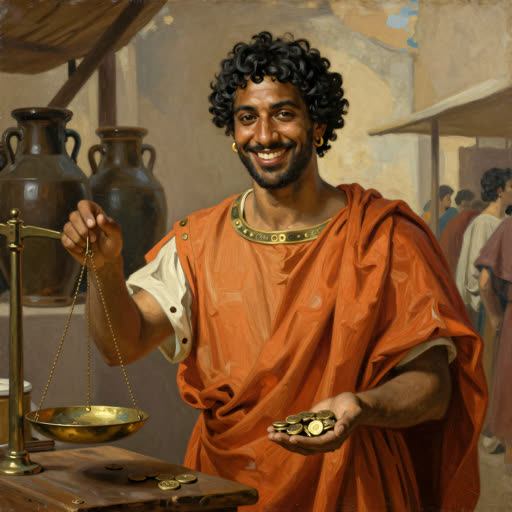
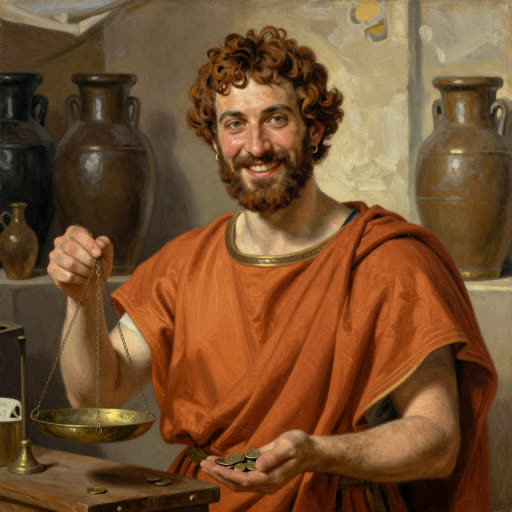
v49: три испытания на эпоху, войско, последствия с именем, заговор совета, восемь новых событий, наставник по механикам, новые портреты рода Менял

diff --git a/story.js b/story.js
@@ -1,0 +1,202 @@
+// Развитие от эпохи к эпохе: войско, разные испытания, последствия с именем, заговор совета, новые события.
+
+// ---------- войско: отдельное дело с эпохи первых городов ----------
+JOBS.army={name:"Войско", who:["men"], out:{}, tip:"только мужчины · воин стоит троих в бою, но ест казну: 1 за двоих в ход", start:0};
+const _startEraSt=startEra;
+startEra=function(){
+  S.jobs.army=S.jobs.army||0;
+  if(S.eraIdx>=2 && !S.open.jobs.includes("army")){ S.open.jobs.push("army"); S.flags.armyNew=true; }
+  _startEraSt();
+  if(S.flags.armyNew){ S.flags.armyNew=false; setTimeout(()=>toast("<b>Открыто: Войско</b><br>Стража стережёт добро, войско воюет. Воин в бою стоит троих, но войско каждый ход ест казну.","ms"),2600); }
+};
+const _economySt=economy;
+economy=function(){ const r=_economySt(), fx=r.fx, n=r.notes;
+  if(S.jobs.army>0){ const d=Math.ceil(S.jobs.army/2); fx.goods-=d; n.push(`жалованье войску −${d}`); }
+  if(S.blockade>0){ S.blockade--; const d=3+S.eraIdx; fx.goods-=d; n.push(`БЕДА: ${S.blockadeWho||"чужие купцы"} обходят твой рынок: казна −${d}${S.blockade?", ещё "+S.blockade+" х.":", торговля возвращается"}`); }
+  // заговор: двое обиженных приходят вместе
+  const foes=Object.keys(ADVISORS).filter(k=>S.rel[k]<=-3);
+  if(foes.length>=2 && S.plotEra!==S.eraIdx && S.queue.length>1){ S.plotEra=S.eraIdx; const [a,b]=foes, A=ADVISORS[a].name, B=ADVISORS[b].name, id="plot_"+S.eraIdx+"_"+S.turn, pay=Math.max(10,Math.round(S.stats.goods*0.3));
+    LATER[id]={title:"Заговор в совете", who:a, hist:"Правителей чаще свергали не враги у ворот, а собственные приближённые: недовольный совет опаснее чужого войска.",
+      text:`${A} и ${B} пришли вдвоём. Говорят тихо и без поклонов: или ты считаешься с ними, или они найдут правителя посговорчивее. За ними их люди.`,
+      choices:[{t:`Уступить обоим: доля из казны (отдашь ${pay})`, fx:{goods:-pay,trust:-3}, rel:{[a]:+3,[b]:+3}, mem:"откупился от заговорщиков в совете"},
+               {t:`Выйти к народу и назвать их при всех (нужно доверия от 60)`, test:()=>S.stats.trust>=60, win:{fx:{trust:+4}, rel:{[a]:+2,[b]:+2}, n:"Народ встал за тебя. Заговорщики притихли и вернулись к делам."}, lose:{fx:{trust:-9,mood:-6}, rel:{}, n:"Толпа молчала. Теперь весь город знает, что совет против тебя."}, mem:"вынес заговор совета на суд народа"},
+               {t:`Прогнать зачинщика (${A})`, fx:{mood:-3}, rel:{[b]:+1}, removed:a, mem:`прогнал зачинщика заговора ${A}`}]};
+    S.pending.push({id, at:S.turn+1}); n.push(`заговор: ${A} и ${B} что-то затевают`); }
+  return r; };
+
+// ---------- последствия с именем ----------
+const _guestOutcomeSt=guestOutcome;
+guestOutcome=function(out){
+  const g=S.cur&&S.cur.guest; const r=_guestOutcomeSt(out);
+  if(out==="refuse" && g){ S.blockade=3; S.blockadeWho="купцы, которых прислал "+g; line("fx",`Отказ запомнят. ${g} найдёт, чем ответить: жди перемен на рынке.`); }
+  return r; };
+const _applySt=apply;
+apply=function(res){
+  const c=S.cur;
+  // выбор с проверкой вне испытаний (заговор и др.)
+  if(res.test && !(c&&c.trial)){ const ok=!!res.test(), o=ok?res.win:res.lose; res.fx={...o.fx}; res.rel={...(o.rel||{})}; res.narration=o.n; delete res.test; }
+  // обиженный советник припомнит решение через пару ходов
+  if(c && !c.aud && !c.trial && res.rel && S.grudgeEra!==S.eraIdx && S.queue.length>2){
+    const k=Object.keys(res.rel).find(x=>ADVISORS[x] && res.rel[x]<=-2);
+    if(k){ S.grudgeEra=S.eraIdx; const A=ADVISORS[k].name, f=isFem(k), what=res.mem||"твоё решение", id="grudge_"+S.eraIdx+"_"+S.turn;
+      LATER[id]={title:`${A} помнит`, who:k, hist:c.hist||"Обида приближённого дорого обходилась правителям во все времена.",
+        text:`${A} не ${f?"забыла":"забыл"}, как ты решил дело («${what}»). Люди ${f?"её":"его"} рода работают спустя рукава и говорят, что правитель не ценит своих.`,
+        choices:[{t:"Загладить подарком из казны", fx:{goods:-8}, rel:{[k]:+2}, mem:`загладил обиду ${A} подарком`},
+                 {t:"Объяснить решение при всём совете", fx:{trust:-3,mood:+1}, rel:{[k]:+1}, mem:`объяснил совету своё решение`},
+                 {t:"Пусть привыкает: правитель здесь один", fx:{trust:+2,mood:-3}, rel:{[k]:-1}, mem:`оставил обиду ${A} без ответа`}]};
+      S.pending.push({id, at:S.turn+2}); }
+  }
+  return _applySt(res);
+};
+
+// ---------- испытания: три на эпоху, выпадает одно ----------
+const _makeTrialSt=makeTrial;
+makeTrial=function(){
+  const s=S.stats, e=S.eraIdx, p=warPower(), n=Math.max(7,Math.round(s.people/5)), pay=Math.max(14,Math.round(s.goods*0.4));
+  const ALT=[
+   [{title:"Чужое племя у реки", text:`Чужаки заняли ваши места охоты и не уходят. У тебя на охоте ${S.jobs.hunt}, запасов ${s.goods}, доверия ${s.trust}.`,
+     hist:"У охотников-собирателей границы угодий держались на уговорах и обмене дарами. Открытая стычка дорого стоила обеим сторонам.",
+     choices:[{t:"Прогнать силой", hint:`нужно охотников от 5 и расположение старшего охотника (${advName("hort","его нет в совете")})`, test:()=>S.jobs.hunt>=5&&advOk("hort"), win:{fx:{trust:+3,people:-1}, n:"Охотники вышли стеной. Чужаки ушли за реку."}, lose:{fx:{people:-3,mood:-5}, n:"Вышли вразнобой, без вожака. Вернулись не все."}},
+              {t:"Поделить угодья по уговору", hint:"нужно доверия от 55", test:()=>s.trust>=55, win:{fx:{food:-6,trust:+2}, n:"Твоему слову поверили и свои, и чужие. Зверя стало меньше, зато мир."}, lose:{fx:{food:-10,trust:-4}, n:"Свои же назвали уговор слабостью и нарушили его первыми."}},
+              {t:"Откупиться шкурами и солью", hint:"нужно запасов от 12", test:()=>s.goods>=12, win:{fx:{goods:-10}, n:"Чужаки взяли дары и ушли вниз по реке."}, lose:{fx:{goods:-5,food:-8,mood:-3}, n:"Даров оказалось мало. Забрали их и остались."}}]},
+    {title:"Лесной пожар", text:`Сухое лето, огонь идёт на стоянку. У тебя на сборе ${S.jobs.gather}, довольства ${s.mood}.`,
+     hist:"Огонь был для охотников не только врагом: многие народы сами выжигали траву и подлесок, чтобы приманить зверя на молодую зелень.",
+     choices:[{t:"Уходить за реку всем племенем", hint:"нужно довольства от 55: пойдут без споров", test:()=>s.mood>=55, win:{fx:{food:-8,goods:-3}, n:"Ушли быстро и все. Часть запасов бросили."}, lose:{fx:{people:-2,food:-10,goods:-5}, n:"Пока спорили, чьё добро спасать, огонь отрезал тропу."}},
+              {t:"Спасать запасы", hint:"нужно на сборе от 8 человек", test:()=>S.jobs.gather>=8, win:{fx:{goods:-2,food:-4}, n:"Рук хватило: запасы вынесли к воде."}, lose:{fx:{people:-2,food:-12}, n:"Рук не хватило. Спасли мало, обожглись многие."}},
+              {t:"Пустить встречный огонь", hint:`нужно расположение жрицы: она знает ветер (${advName("vedana","её нет в совете")})`, test:()=>advOk("vedana"), win:{fx:{trust:+3,food:-3}, n:"Встречный пал съел траву перед стоянкой. Пожар прошёл стороной."}, lose:{fx:{people:-3,food:-10,trust:-4}, n:"Ветер переменился, и свой же огонь пришёл к шалашам."}}]}],
+   [{title:"Падёж скота", text:`В стаде мор, животные падают одно за другим. У тебя на посевах ${S.jobs.gather}, запасов ${s.goods}.`,
+     hist:"Вместе со стадами к людям пришли новые болезни: скученность скота и людей в первых посёлках сделала мор частым гостем.",
+     choices:[{t:"Забить больных, здоровых отделить", hint:"нужен загон для скота", test:()=>hasB("pen"), win:{fx:{food:-5}, n:"Здоровых увели в загон. Стадо уцелело наполовину."}, lose:{fx:{food:-14,mood:-4}, n:"Отделить было негде. Мор взял почти всё стадо."}},
+              {t:"Жить посевами", hint:"нужно на посевах от 8 человек", test:()=>S.jobs.gather>=8, win:{fx:{food:-6}, n:"Поля прокормили. Мяса до осени не будет."}, lose:{fx:{food:-12,people:-2}, n:"Полей мало, рук на них ещё меньше. Пришёл голод."}},
+              {t:"Выменять скот у соседей", hint:"нужно запасов от 18", test:()=>s.goods>=18, win:{fx:{goods:-14,food:+2}, n:"Соседи продали молодняк. Дорого, но стадо снова есть."}, lose:{fx:{goods:-8,food:-10}, n:"На ваши запасы дали трёх тощих коз."}}]},
+    {title:"Набег на амбары", text:`Чужие люди идут за вашим зерном. У тебя стражи ${S.jobs.guard}, еды ${s.food}.`,
+     hist:"Первые укрепления появились вместе с первыми запасами: каменную стену Иерихона построили около десяти тысяч лет назад.",
+     choices:[{t:"Отбиваться", hint:"нужно стражи от 3", test:()=>S.jobs.guard>=3, win:{fx:{trust:+3,people:-1}, n:"Стража встретила их у частокола. Зерно цело."}, lose:{fx:{food:-12,goods:-8,people:-2}, n:"Сторожить было некому. Амбары вынесли за ночь."}},
+              {t:"Спрятать зерно и уйти в лес", hint:"нужна веха «Первый амбар»: есть ямы и тайники", test:()=>!!S.ms.granary, win:{fx:{food:-5,mood:-2}, n:"Нашли только пустые дома. Тайники уцелели."}, lose:{fx:{food:-14,goods:-6}, n:"Прятать было некуда: зерно лежало на виду."}},
+              {t:"Откупиться частью урожая", hint:"нужно еды от 45", test:()=>s.food>=45, win:{fx:{food:-16}, n:"Отдали треть и остались живы."}, lose:{fx:{food:-12,goods:-8,trust:-4}, n:"Отдавать было почти нечего. Взяли всё, что нашли."}}]}],
+   [{title:"Пересохший канал", text:`Река обмелела, канал занесло илом, поля сохнут. У тебя еды ${s.food}, казны ${s.goods}.`,
+     hist:"Жизнь Шумера держалась на каналах. Чистка русел была общей повинностью, а споры из-за воды доходили до войн между городами, как у Лагаша с Уммой.",
+     choices:[{t:"Чистить русло всем городом", hint:"нужен канал или закон о труде", test:()=>hasB("canal")||S.laws.some(l=>l.kind==="work"), win:{fx:{food:-6,mood:-2}, n:"Вода пошла на поля. Урожай спасли наполовину."}, lose:{fx:{food:-16,people:-2}, n:"Копать было нечего и некому приказать. Поля сгорели."}},
+              {t:"Открыть храмовые житницы", hint:"нужна веха «Храм-хранилище»", test:()=>!!S.ms.temple, win:{fx:{food:-8,trust:+3}, n:"Храм раздал зерно в долг до урожая."}, lose:{fx:{food:-14,trust:-4,mood:-4}, n:"Житниц нет. Люди ели посевное зерно."}},
+              {t:"Купить зерно у соседей", hint:`отдашь ${pay} казны`, test:()=>s.goods>pay+5, win:{fx:{goods:-pay,food:+4}, n:"Зерно привезли на лодках. Казна похудела."}, lose:{fx:{food:-14,mood:-5}, n:"Казны не хватило. Соседи продали другим."}}]},
+    {title:"Бунт должников", text:`Бедняки, отдавшие за долги поля и детей, собрались у ворот. Твоя сила ${p}, законов ${S.laws.length}, доверия ${s.trust}.`,
+     hist:"Правители Месопотамии не раз объявляли прощение долгов, чтобы должники не бежали и не бунтовали. Самое раннее известное принадлежит Энметене из Лагаша, около 2400 года до н. э.",
+     choices:[{t:"Простить долги бедным", hint:"нужна веха «Писец и учёт»: есть списки, кому и сколько", test:()=>!!S.ms.scribe, win:{fx:{goods:-8,mood:+4,trust:+2}, n:"Писцы разбили таблички с долгами. Люди разошлись по домам."}, lose:{fx:{goods:-12,mood:-3,trust:-4}, n:"Списков нет: простили не тем, и обиженных стало вдвое больше."}},
+              {t:"Судить по закону", hint:"нужен хотя бы один закон", test:()=>S.laws.length>0, win:{fx:{trust:+3,mood:-3}, n:"Закон один для всех. Ворчат, но подчинились."}, lose:{fx:{trust:-7,mood:-6}, n:"Закона нет: судили как придётся, и каждый приговор звали произволом."}},
+              {t:"Разогнать", hint:`твоя сила ${p}, нужно ${n}`, test:()=>p>=n, win:{fx:{mood:-6,trust:-2}, n:"Площадь очистили. Должники ушли молча."}, lose:{fx:{people:-4,mood:-8,trust:-5}, n:"Стражу смяли. Усадьбы богачей горели всю ночь."}}]}],
+   [{title:"Хлебный бунт", text:`Хлеб подорожал втрое, у пекарен драки. У тебя еды ${s.food}, казны ${s.goods}.`,
+     hist:"В Риме дешёвый хлеб для горожан стал делом государства: закон Гая Гракха 123 года до н. э. установил твёрдую низкую цену на зерно.",
+     choices:[{t:"Раздать хлеб из запасов", hint:"нужно еды от 50", test:()=>s.food>=50, win:{fx:{food:-18,mood:+3}, n:"Амбары открыли. Город успокоился."}, lose:{fx:{food:-10,mood:-7,trust:-4}, n:"Раздали мало и не всем. Стало только хуже."}},
+              {t:"Закупить зерно за морем", hint:`отдашь ${pay} казны`, test:()=>s.goods>pay+5, win:{fx:{goods:-pay,mood:+2}, n:"Корабли с зерном пришли через неделю."}, lose:{fx:{mood:-8,trust:-5}, n:"Платить нечем. Корабли ушли к соседям."}},
+              {t:"Назначить твёрдую цену", hint:"нужен закон о торге или о суде", test:()=>S.laws.some(l=>l.kind==="trade"||l.kind==="court"), win:{fx:{mood:+2,goods:-6}, n:"Цену объявили и стали следить. Пекари ворчат, но пекут."}, lose:{fx:{mood:-6,goods:-8,trust:-3}, n:"Цену объявили, а следить некому. Хлеб исчез с прилавков."}}]},
+    {title:"Знать хочет власти", text:`Богатые роды сговорились править сами. Твоя сила ${p}, казны ${s.goods}, доверия ${s.trust}.`,
+     hist:"В греческих городах борьба знати и народа не раз кончалась тиранией: в Афинах Писистрат взял власть в VI веке до н. э., опираясь на бедноту и личную стражу.",
+     choices:[{t:"Созвать народное собрание", hint:"нужно доверия от 60", test:()=>s.trust>=60, win:{fx:{trust:+3,mood:+2}, n:"Собрание встало за тебя. Знать отступила."}, lose:{fx:{trust:-9,mood:-4}, n:"Собрание молчало. Знать поняла, что ты один."}},
+              {t:"Купить их верность", hint:`отдашь ${pay} казны`, test:()=>s.goods>pay+5, win:{fx:{goods:-pay}, n:"Каждый получил свою долю и передумал."}, lose:{fx:{trust:-8,goods:-10}, n:"Денег хватило на половину. Вторая половина обиделась вдвойне."}},
+              {t:"Опереться на войско", hint:`твоя сила ${p}, нужно ${n}`, test:()=>p>=n, win:{fx:{trust:-2,mood:-4}, n:"Воины встали у домов знати. Сговор распался."}, lose:{fx:{trust:-10,people:-3}, n:"Воинов оказалось мало, и половина из них служит знати."}}]}],
+   [{title:"Путь перекрыт", text:`Разбойники и пираты держат дороги, купцы стоят в порту. Твоя сила ${p}, казны ${s.goods}.`,
+     hist:"Купцы Ганзы ходили караванами судов и вскладчину содержали охрану: одиночный корабль был лёгкой добычей.",
+     choices:[{t:"Снарядить охрану", hint:`твоя сила ${p}, нужно ${n}`, test:()=>p>=n, win:{fx:{goods:+4,trust:+3}, n:"Дорогу очистили. Купцы платят за охрану с охотой."}, lose:{fx:{goods:-12,people:-3}, n:"Отряд разбили. Обоз достался разбойникам."}},
+              {t:"Платить за проход", hint:`отдашь ${pay} казны`, test:()=>s.goods>pay+5, win:{fx:{goods:-pay}, n:"Заплатили, и обозы пошли."}, lose:{fx:{goods:-10,trust:-5}, n:"Денег взяли, а обоз всё равно ограбили."}},
+              {t:"Вести торг в обход", hint:`нужно расположение купца (${advName("miron","его нет в совете")})`, test:()=>advOk("miron"), win:{fx:{goods:-5}, n:"Нашлась старая горная тропа. Дольше, но товар цел."}, lose:{fx:{goods:-14,mood:-4}, n:"Без знающего человека обоз заблудился и вернулся пустым."}}]},
+    {title:"Серебряный голод", text:`Рудники истощились, монеты не хватает, сделки встают. У тебя казны ${s.goods}, довольства ${s.mood}.`,
+     hist:"В XV веке Европа пережила «серебряный голод»: рудники истощились, монеты не хватало, и купцы всё чаще рассчитывались записями и векселями.",
+     choices:[{t:"Пустить в ход векселя", hint:"нужна веха «Вексель»", test:()=>!!S.ms.bill, win:{fx:{trust:+2,goods:+3}, n:"Бумага заменила серебро. Торг ожил."}, lose:{fx:{goods:-10,trust:-5}, n:"Бумагам никто не верит: такого здесь не знают."}},
+              {t:"Занять серебро у купцов", hint:`нужно расположение купца (${advName("miron","его нет в совете")})`, test:()=>advOk("miron"), win:{fx:{goods:+8,trust:-2}, n:"Купцы открыли сундуки. Город теперь у них в долгу."}, lose:{fx:{goods:-6,trust:-6}, n:"Купцы развели руками и вывезли серебро из города."}},
+              {t:"Урезать расходы города", hint:"нужно довольства от 55", test:()=>s.mood>=55, win:{fx:{mood:-8,goods:+4}, n:"Затянули пояса. Ропщут, но терпят."}, lose:{fx:{mood:-12,trust:-5}, n:"Терпение кончилось раньше, чем расходы."}}]}],
+   [{title:"Пузырь", text:`Весь город скупает доли заморской компании, цена растёт каждый день. У тебя казны ${s.goods}.`,
+     hist:"В 1720 году в Англии лопнул пузырь Компании Южных морей. Среди потерявших деньги был Исаак Ньютон.",
+     choices:[{t:"Запретить покупать бумаги в долг", hint:"нужна биржа или закон о торге", test:()=>hasB("exchange")||S.laws.some(l=>l.kind==="trade"), win:{fx:{mood:-4,trust:+3}, n:"Жар спал. Когда цена упала, разорились немногие."}, lose:{fx:{goods:-14,trust:-6}, n:"Запрет некому исполнять. Пузырь лопнул вместе с городскими деньгами."}},
+              {t:"Тихо продать долю города", hint:`нужно расположение банкира (${advName("miron","его нет в совете")})`, test:()=>advOk("miron"), win:{fx:{goods:+8,trust:-3}, n:"Продали на самом верху. Потом узнали и не простили."}, lose:{fx:{goods:-12,trust:-4}, n:"Банкир продал сначала своё. Городу достались остатки."}},
+              {t:"Не вмешиваться", hint:"нужно казны от 50, чтобы пережить обвал", test:()=>s.goods>=50, win:{fx:{goods:-15}, n:"Обвал пришёл. Казна выдержала."}, lose:{fx:{goods:-20,trust:-8,mood:-5}, n:"Обвал пришёл, и держать удар было нечем."}}]},
+    {title:"Деньги дешевеют", text:`Бумажных денег напечатано слишком много, цены растут каждую неделю. У тебя стражи ${S.jobs.guard}, доверия ${s.trust}.`,
+     hist:"Во Франции времён революции бумажные ассигнаты за несколько лет обесценились почти до нуля: их печатали быстрее, чем росло хозяйство.",
+     choices:[{t:"Привязать деньги к золоту", hint:"нужна веха «Золото или доверие»", test:()=>!!S.ms.backing, win:{fx:{goods:-8,trust:+5}, n:"За каждой бумагой теперь стоит металл. Цены остановились."}, lose:{fx:{trust:-8,mood:-5}, n:"Обещанию не поверили: за ним ничего не стоит."}},
+              {t:"Поднять налог и изъять лишние деньги", hint:"нужно доверия от 55", test:()=>s.trust>=55, win:{fx:{mood:-6,trust:-2}, n:"Больно, но цены пошли вниз."}, lose:{fx:{mood:-10,trust:-8}, n:"Налог сочли грабежом. Платить перестали вовсе."}},
+              {t:"Заморозить цены", hint:"нужна стража: 1 на 8 человек", test:()=>S.jobs.guard>=Math.ceil(s.people/8), win:{fx:{mood:+2,goods:-6}, n:"Стража ходит по лавкам. Цены стоят."}, lose:{fx:{goods:-10,mood:-6,trust:-4}, n:"Следить некому: товар ушёл под прилавок."}}]}]
+  ];
+  const pool=ALT[e]||[], i=Math.floor(Math.random()*(pool.length+1));
+  if(i>=pool.length) return _makeTrialSt();
+  const t=pool[i]; t.trial=true; t.who=Object.keys(ADVISORS)[0];
+  t.choices.forEach(c=>{ c.t=`${c.t} (${c.hint})`; });
+  return t;
+};
+
+// ---------- новые события в эпохи, где запас был мал ----------
+(function(){
+  const add=(era,list)=>{ if(ERAS[era]) ERAS[era].extra.push(...list); };
+  add(0,[
+   {id:"old_hunter", title:"Старый охотник", who:"vedana", text:"Старый охотник больше не может ходить. Скоро кочевать, нести его тяжело. Ведана говорит: он один помнит дальние тропы.",
+    hist:"В пещере Шанидар нашли неандертальца с сухой рукой и следами тяжёлых травм. Он прожил с ними много лет: значит, о нём заботились.",
+    choices:[{t:"Нести с собой",fx:{food:-3,trust:+4},rel:{vedana:+1},mem:"не бросил старого охотника",trait:"faith"},
+             {t:"Оставить с запасом еды",fx:{food:-4,mood:-4},rel:{vedana:-2},mem:"оставил старого охотника на стоянке"},
+             {t:"Пусть решает его род",fx:{trust:-2,mood:+1},rel:{},mem:"отдал судьбу старика на волю его рода"}]},
+   {id:"ochre", title:"Красная охра", who:"miron", text:"Соседи принесли красную охру и морские раковины. Просят за них мясо. Бажен говорит: за такое потом дадут вдвое.",
+    hist:"Раковины и охру люди носили за сотни километров от моря ещё десятки тысяч лет назад. Украшения были первым товаром дальнего обмена.",
+    choices:[{t:"Меняться: красота тоже нужна людям",fx:{food:-5,mood:+5},rel:{miron:+1},mem:"выменял охру и раковины на мясо",trait:"trade"},
+             {t:"Не до украшений",fx:{mood:-2},rel:{miron:-1},mem:"отказался менять мясо на украшения"},
+             {t:"Взять немного, для обрядов",fx:{food:-2,mood:+2},rel:{vedana:+1},mem:"взял охру для обрядов",trait:"faith"}]}]);
+  add(2,[
+   {id:"tablet_house", title:"Дом табличек", who:"gost", text:"Гостомысл хочет открыть дом табличек: учить детей письму и счёту. Учеников придётся кормить годами, прежде чем они начнут приносить пользу.",
+    hist:"В шумерских школах, «домах табличек», учились годами. До нас дошли упражнения учеников и даже их жалобы на строгих учителей.",
+    choices:[{t:"Школа за счёт храма",fx:{goods:-8,trust:+3},rel:{gost:+2,vedana:-1},mem:"открыл дом табличек за счёт храма",trait:"law"},
+             {t:"Учить детей знати, за плату",fx:{goods:+3,mood:-4},rel:{gost:+1},mem:"открыл платную школу для знати",trait:"trade"},
+             {t:"Писцов и так хватает",fx:{trust:-1},rel:{gost:-2},mem:"отказал в школе писцов"}]},
+   {id:"weights", title:"Чья гиря верная", who:"miron", text:"На рынке у каждого купца своя гиря, и все обвешивают. Бажен просит единую меру с печатью правителя.",
+    hist:"Шумерский царь Шульги в XXI веке до н. э. ввёл единые меры и гири. Каменные гири в виде спящей утки находят по всему Междуречью.",
+    choices:[{t:"Единые гири, за обман штраф",fx:{trust:+4,goods:-3},rel:{miron:+1},mem:"ввёл единые гири с печатью",trait:"law"},
+             {t:"Пусть купцы договорятся сами",fx:{goods:+3,trust:-3},rel:{miron:+1},mem:"оставил меры на совести купцов",trait:"trade"},
+             {t:"Верные гири хранит храм",fx:{trust:+2},rel:{vedana:+1,miron:-2},mem:"отдал меры и гири храму",trait:"faith"}]}]);
+  add(3,[
+   {id:"ostrakon", title:"Суд черепков", who:"vedana", text:"Бажен разбогател и скупает голоса. Горожане предлагают раз в год голосовать черепками: чьё имя напишут чаще, тот уйдёт из города на десять лет.",
+    hist:"В Афинах V века до н. э. голосовали черепками, остраконами: набравший больше всех уходил в изгнание на десять лет. Так изгнали даже Аристида по прозвищу Справедливый.",
+    choices:[{t:"Ввести суд черепков",fx:{trust:+4,mood:+2},rel:{miron:-2},mem:"ввёл суд черепков",trait:"law"},
+             {t:"Запретить: так изгонят любого неугодного",fx:{trust:-3},rel:{miron:+2},mem:"запретил суд черепков"},
+             {t:"Изгонять может только совет",fx:{mood:-4,trust:+1},rel:{gost:+1},mem:"оставил изгнание за советом"}]},
+   {id:"mercenaries", title:"Чужие копья", who:"hort", text:"Свои устали от походов. Хорт предлагает нанять чужеземных воинов: дерутся хорошо, пока им платят.",
+    hist:"Карфаген воевал почти одними наёмниками. В 241 году до н. э. он не смог им заплатить, и наёмники три года воевали против собственных нанимателей.",
+    choices:[{t:"Нанять чужеземцев",fx:{goods:-10,trust:+2},rel:{hort:+1},mem:"нанял чужеземных воинов",trait:"war"},
+             {t:"Служит каждый горожанин по очереди",fx:{mood:-5,trust:+3},rel:{},mem:"ввёл службу для всех горожан",trait:"law"},
+             {t:"Обойдёмся тем, что есть",fx:{trust:-3},rel:{hort:-2},mem:"отказал войску в пополнении"}]},
+   {id:"games", title:"Игры в честь богов", who:"vedana", text:"Ведана просит устроить игры и шествие в честь богов. Народ давно не видел праздника, а казна не бездонна.",
+    hist:"В Афинах богатых граждан обязывали платить за общие нужды: снарядить боевой корабль или поставить хор к празднику. Это называлось литургией.",
+    choices:[{t:"Игры за счёт казны",fx:{goods:-10,mood:+7},rel:{vedana:+1},mem:"устроил игры за счёт казны",trait:"faith"},
+             {t:"Пусть платят богатые",fx:{mood:+4,trust:+2},rel:{miron:-2},mem:"заставил богатых оплатить игры",trait:"law"},
+             {t:"Не время для праздников",fx:{mood:-4},rel:{vedana:-2},mem:"отказал в играх"}]},
+   {id:"silver_mine", title:"Серебряная жила", who:"gost", text:"Гостомысл нашёл в горах серебряную жилу. Копать там тяжело и опасно: кто будет работать?",
+    hist:"Серебро Лаврионских рудников сделало Афины морской державой: в 483 году до н. э. по совету Фемистокла на него построили двести боевых кораблей.",
+    choices:[{t:"Послать пленных и рабов",fx:{goods:+10,mood:-4,trust:-3},rel:{},mem:"послал пленных в рудник",trait:"war"},
+             {t:"Платить вольным рудокопам",fx:{goods:+4,trust:+2},rel:{gost:+1},mem:"нанял вольных рудокопов"},
+             {t:"Сдать рудник купцам за долю",fx:{goods:+6},rel:{miron:+2,gost:-2},mem:"сдал рудник купцам",trait:"trade"}]}]);
+})();
+
+// ---------- наставник: три хода на новую механику эпохи и напоминание, если ею не пользуются ----------
+const MENTOR=[ null,
+ {tips:[["gost","Справа появились «Постройки». Стройка стоит запасов и работает до конца игры: загон кормит, святилище успокаивает, печь даёт запасы. За ход можно начать одну."],
+        ["gost","Беды теперь приходят сами: мор, гниль, волки. Постройки и стража смягчают удар втрое. Кто не строит, платит полную цену."],
+        ["miron","Ремесло и обмен дают запасы, но эти люди не кормят себя сами. Следи, чтобы еда за ход оставалась в плюсе."]],
+  used:()=>S.built.some(b=>!/^leg_|^pact_/.test(b.id)), nudge:["gost","Ты ещё ничего не построил. Запасы лежат без дела, а первая же беда ударит в полную силу."]},
+ {tips:[["hort","Теперь у города есть войско. Стража стережёт добро от воров, воины встречают врага: воин в бою стоит троих. Но войско каждый ход ест казну. Держи столько, сколько можешь кормить."],
+        ["vedana","Законы ты пишешь сам, в панели справа. Каждый закон действует каждый ход: одно даёт, другое забирает. Больше четырёх не удержать, плохой можно отменить."],
+        ["hort","В конце эпохи придёт беда, и считать будут копья, стены и запасы. Без войска и стены выбирать тебе будет не из чего."]],
+  used:()=>S.jobs.army>0||S.jobs.guard>=3, nudge:["hort","У города нет ни войска, ни крепкой стражи. Враг это видит."]},
+ {tips:[["miron","Открылась «Казна». Город теперь проедает казну каждый ход, и без налога она опустеет. Умеренный налог люди терпят. Тяжёлый собирается, только пока тебе верят."],
+        ["gost","Есть соблазн подмешать в монету медь. Казна сразу полнеет, но три хода растут цены и падает доверие, и честной монетой твою уже не назовут."],
+        ["miron","Если казна опустеет, страже будет не плачено и доверие посыплется. Смотри на строку «за ход» под списком дел."]],
+  used:()=>S.tax>0, nudge:["miron","Налога нет, а город растёт. Казна тает с каждым ходом."]},
+ {tips:[["miron","Обмен с соседями отжил своё. Теперь казну кормят караваны: в панели «Казна» выбери путь. К соседям надёжно, но скромно. Степью богаче, но без трёх стражников могут ограбить. Морем богаче всего, но каждый третий корабль не возвращается."],
+        ["hort","Караван уводит двух мужчин на два хода и стоит денег вперёд. Отправляй, когда есть свободные руки и запас в казне."],
+        ["miron","Два удачных каравана дают веху. И знай: этот город дорог, одним налогом его не прокормить."]],
+  used:()=>!!S.caravan||S.flags.caravansOk>0, nudge:["miron","Ни один караван ещё не ушёл. Без торговли казна этой эпохи не сойдётся."]},
+ {tips:[["miron","Теперь в городе банк. «Вклады» дают казне 10 сразу, но это чужие деньги: по ним ты платишь десятую долю каждый ход."],
+        ["gost","Чтобы вклады окупались, давай кредиты: отдаёшь 15, через три хода возвращают 21, если должник не разорится. Первый возвращённый кредит даёт веху."],
+        ["gost","Держи в казне не меньше половины вкладов. Иначе паника: вкладчики заберут всё разом, и доверие рухнет."]],
+  used:()=>!!S.bank&&(S.bank.dep>0||S.bank.loans.length>0), nudge:["miron","Банк стоит пустой. Без вкладов и кредитов казна этой эпохи не сойдётся."]}
+];
+const _showEventSt=showEvent;
+showEvent=function(kind,aud){ const r=_showEventSt(kind,aud);
+  const m=MENTOR[S.eraIdx]; if(!m||(S.cur&&S.cur.trial)) return r;
+  const key=S.eraIdx+":"+S.turn; if(S.mentorAt===key) return r; S.mentorAt=key;
+  const t=S.turn<=3?m.tips[S.turn-1]:(S.turn===5&&!m.used()?m.nudge:null);
+  if(t){ if(ADVISORS[t[0]]) say(t[0],t[1],"tip"); else line("tip",t[1]); }
+  return r; };

diff --git a/saga.js b/saga.js
@@ -2,7 +2,7 @@
 // Испытание проверяет то, что игрок построил и накопил за эпоху; наследие выбирается из пройденных вех.
 
 const hasB = id => S.built.some(b=>b.id===id);
-const warPower = () => S.jobs.guard*2 + (S.built.some(b=>b.theft)?4:0) + Math.floor(S.pop.men/4);
+const warPower = () => S.jobs.guard*2 + (S.jobs.army||0)*3 + (S.built.some(b=>b.theft)?4:0) + Math.floor(S.pop.men/4);
 const advOk = k => ADVISORS[k] && S.rel[k]>=1;
 const advName = (k,alt) => ADVISORS[k] ? ADVISORS[k].name : alt;
 
@@ -30,13 +30,13 @@ function makeTrial(){
      {t:"Резать скот", hint:"нужна веха «Приручить скот» или загон", test:()=>!!S.ms.herd||hasB("pen"), win:{fx:{food:+6,goods:-3}, n:"Стадо спасло людей. Его стало меньше, но народ цел."}, lose:{fx:{food:-12,people:-3,mood:-4}, n:"Резать некого. Голод пришёл в каждый дом."}},
      {t:"Открыть общий амбар", hint:"нужна веха «Первый амбар» и еды от 45", test:()=>!!S.ms.granary&&s.food>=45, win:{fx:{food:-14,trust:+3,mood:+1}, n:"Амбар открыли и делили по ртам. Хватило всем."}, lose:{fx:{food:-14,people:-2,mood:-6,trust:-3}, n:"Запаса не хватило, у амбара дрались."}},
      {t:"Молить о дожде всем народом", hint:`нужно расположение жрицы (${advName("vedana","её нет в совете")}) или святилище`, test:()=>advOk("vedana")||hasB("shrine"), win:{fx:{food:-8,mood:+4}, n:"Дождь пришёл поздно, но люди держались вместе и не разбрелись."}, lose:{fx:{food:-8,mood:-8,trust:-4}, n:"Молились вразнобой, и каждый винил соседа. Многие ушли искать воду сами."}}]},
-   {title:"Набег горцев", text:`С гор спустилось войско, идёт на город. Твоя сила ${p}: каждый стражник считается за двоих, стена даёт 4, ещё каждый четвёртый мужчина возьмёт копьё. У врага ${n3}. Казны ${s.goods}, еды ${s.food}.`,
+   {title:"Набег горцев", text:`С гор спустилось войско, идёт на город. Твоя сила ${p}: воин считается за троих, стражник за двоих, стена даёт 4, ещё каждый четвёртый мужчина возьмёт копьё. У врага ${n3}. Казны ${s.goods}, еды ${s.food}.`,
     hist:"Города Междуречья веками жили под угрозой набегов с гор. Около XXII века до н. э. горцы-гутии разорили Аккад.",
     choices:[
      {t:"Встретить у ворот", hint:`твоя сила ${p}, нужно ${n3}`, test:()=>p>=n3, win:{fx:{trust:+3,goods:+4,people:-1}, n:"Стража выстояла. Горцы ушли, бросив обоз."}, lose:{fx:{people:-5,goods:-10,trust:-4,mood:-4}, n:"Стражи не хватило. Город разграблен."}},
      {t:"Откупиться серебром", hint:`отдашь ${pay3} казны`, test:()=>s.goods>pay3+5, win:{fx:{goods:-pay3,trust:-4}, n:"Горцы взяли серебро и ушли. Дорого, но все живы."}, lose:{fx:{goods:-10,people:-3,trust:-5}, n:"Серебра оказалось мало. Забрали всё и взяли ещё людей."}},
      {t:"Закрыть ворота и ждать", hint:"нужна городская стена и еды от 40", test:()=>hasB("wall")&&s.food>=40, win:{fx:{food:-10,trust:+3}, n:"Стена выдержала, еды хватило. Горцы постояли и ушли."}, lose:{fx:{food:-10,goods:-8,people:-2,mood:-5}, n:"Отсидеться не вышло: без стены и запаса осаду не держат."}}]},
-   {title:"Война с соседним городом", text:`Соседний город объявил войну из-за рудников. Твоя сила ${p} (стражник за двоих, стена 4, каждый четвёртый мужчина), у врага ${n4}. Казны ${s.goods}, доверия ${s.trust}.`,
+   {title:"Война с соседним городом", text:`Соседний город объявил войну из-за рудников. Твоя сила ${p} (воин за троих, стражник за двоих, стена 4, каждый четвёртый мужчина), у врага ${n4}. Казны ${s.goods}, доверия ${s.trust}.`,
     hist:"Греческие города воевали друг с другом почти без перерыва. На наёмников и флот уходила большая часть их казны.",
     choices:[
      {t:"Вывести войско", hint:`твоя сила ${p}, нужно ${n4}`, test:()=>p>=n4, win:{fx:{trust:+3,goods:+5,people:-2}, n:"Войско победило. Рудники твои."}, lose:{fx:{people:-6,mood:-6,trust:-5}, n:"Войско разбито. Город платит победителю людьми."}},

diff --git a/game.js b/game.js
@@ -25,7 +25,7 @@ function newGame(silent){
   for(const k in STATS) S.stats[k]=STATS[k].start;
   S.stats.food=32; S.stats.goods=10; S.stats.people=18;
   S.pop={men:5,women:5,elders:3,kids:5}; S.acc={food:0,goods:0};
-  S.jobs={hunt:5,gather:10,craft:0,trade:0,guard:0};
+  S.jobs={hunt:5,gather:10,craft:0,trade:0,guard:0,army:0}; S.blockade=0; S.plotEra=-1; S.grudgeEra=-1; S.mentorAt="";
   S.ms={}; S.traits={war:0,trade:0,law:0,faith:0,nomad:false}; S.open={jobs:["hunt","gather"],laws:false,builds:false};
   // новая партия: ничего из прошлой (банк, налог, караван, поход, древо совета) не переносится
   S.tax=0; S.bank=null; S.caravan=null; S.infl=0; S.away=null; S.lineage={}; S.lineageX=[]; S.asked=[]; S.usedAud=[]; S.talkCd=0; S.gone={}; S.eco=null;
@@ -39,7 +39,7 @@ function newGame(silent){
 
 function applyLabels(){
   const L=ERA_LABELS[S.eraIdx]; STATS.goods.name=L.goods;
-  for(const k in JOBS){ JOBS[k].name=L.jobs[k]; JOBS[k].tip0=JOBS[k].tip0||JOBS[k].tip; JOBS[k].tip=JOBS[k].tip0.split("запасов").join(S.eraIdx>=2?"казны":"запасов"); }
+  for(const k in JOBS){ JOBS[k].name=L.jobs[k]||JOBS[k].name; JOBS[k].tip0=JOBS[k].tip0||JOBS[k].tip; JOBS[k].tip=JOBS[k].tip0.split("запасов").join(S.eraIdx>=2?"казны":"запасов"); }
   if(S.traits?.nomad && S.eraIdx>=1){ JOBS.hunt.name="Стада"; JOBS.gather.name="Кочевые промыслы"; }
 }
 function unlockByKey(key){
@@ -250,7 +250,7 @@ $("nextBtn").onclick=()=>{
 function assign(){
   const p={...S.pop}, j=S.jobs, a={}; let ok=true;
   const take=(job,groups,n)=>{ a[job]=a[job]||{}; for(const gr of groups){ const t=Math.min(n,p[gr]); if(t>0){ a[job][gr]=(a[job][gr]||0)+t; p[gr]-=t; n-=t; } } if(n>0) ok=false; };
-  take("hunt",["men"],j.hunt); take("guard",["men"],j.guard);
+  take("hunt",["men"],j.hunt); take("guard",["men"],j.guard); take("army",["men"],j.army||0);
   take("craft",["elders","women"],j.craft); take("gather",["kids","elders","women"],j.gather);
   take("trade",["women","men"],j.trade);
   return {a, ok, free:p};
@@ -275,7 +275,7 @@ function economy(){
       if(sl==="miron"){ fx.goods-=3; notes.push(ADVISORS[sl].name+" утаил запасы"); }
       if(sl==="hort"&&Math.random()<0.6){ fx.goods-=3; fx.trust-=1; notes.push(ADVISORS[sl].name+" распустил стражу, воруют"); } } }
   const foes=Object.keys(ADVISORS).filter(k=>S.rel[k]<=-4);
-  if(foes.length>=2){ fx.trust-=6; notes.push("заговор: "+foes.map(k=>ADVISORS[k].name).join(" и ")+" подбивают людей против тебя"); }
+  if(foes.length>=2){ fx.trust-=4; notes.push("заговор: "+foes.map(k=>ADVISORS[k].name).join(" и ")+" подбивают людей против тебя"); }
   if(S.open.jobs.includes("guard") && S.jobs.guard < Math.floor(s.people/10) && !S.built.some(b=>b.theft) && !S.laws.some(l=>l.kind==="court") && Math.random()<0.5){ fx.goods-=3; fx.trust-=2; notes.push("стражи мало, растащили запасы"); }
   if(s.food>70 && s.goods<15 && S.open.jobs.length>2) notes.push("еды вдоволь, а запасов мало: переставь людей на ремесло или обмен");
   if(s.food<20) notes.push("еды мало: больше людей на охоту и сбор");
@@ -391,7 +391,7 @@ function guestOutcome(out){
   } else if(out==="tribute"){ S.flags.tribute=true; line("fx","Ты признал старшего. Дань теперь будет уходить каждый ход."); }
   else if(out==="trade"||out==="alliance"){ S.traits.trade++; S.built.push({id:"pact_"+S.turn,name:"Союз: "+g,eff:{goods:1}}); line("fx","Союз заключён: +1 к запасам каждый ход."); }
 }
-function fightPower(){ return Math.floor(S.pop.men/3)+S.jobs.guard*2+(S.built.some(b=>b.theft)?4:0); }
+function fightPower(){ return Math.floor(S.pop.men/3)+S.jobs.guard*2+(S.jobs.army||0)*3+(S.built.some(b=>b.theft)?4:0); }
 function enemyPower(){ return 4+S.eraIdx*2+Math.round(S.stats.people*0.1); }
 function fight(res){
   const power=fightPower();

diff --git a/eras2.js b/eras2.js
@@ -72,8 +72,8 @@ const NEW = {
  ms_temple:{id:"ms_temple", ms:"temple", title:"Храм-хранилище", who:"vedana",
   text:"Ведана предлагает построить храм. Люди будут сдавать туда зерно на хранение, а храм — давать его в долг весной.",
   hist:"Храмы Шумера были первыми «банками»: хранили зерно и серебро, давали в долг под рост. Процент по зерну доходил до трети в год.",
-  choices:[{t:"Строить храм-хранилище",fx:{goods:-6,trust:+4,mood:+2},rel:{vedana:+2},mem:"построил храм-хранилище",ms:"temple",trait:"faith"},
-           {t:"Храм без хранилища",fx:{goods:-3,mood:+3},rel:{vedana:+1},mem:"построил храм без хранилища",trait:"faith"},
+  choices:[{t:"Храм с житницей: хранит зерно и даёт в долг",fx:{goods:-6,trust:+4,mood:+2},rel:{vedana:+2},mem:"построил храм-хранилище",ms:"temple",trait:"faith"},
+           {t:"Храм только для молитв: дешевле",fx:{goods:-3,mood:+3},rel:{vedana:+1},mem:"построил храм без хранилища",trait:"faith"},
            {t:"Не до храмов",fx:{},rel:{vedana:-2},mem:"отказался строить храм"}]},
 
  ms_tax:{id:"ms_tax", ms:"tax", title:"Чем содержать войско?", who:"hort",
@@ -274,7 +274,7 @@ const NATIONS = [
 
 // Портреты рода по эпохам: берём последний доступный не позже текущей эпохи
 const PORTRAITS = { hort:["img/hort.jpg","img/hort_e2.jpg","img/hort_e3.jpg","img/hort_e4.jpg","img/hort_e5.jpg","img/hort_e6.jpg"], vedana:["img/vedana.jpg","img/vedana_e2.jpg","img/vedana_e3.jpg","img/vedana_e4.jpg","img/vedana_e5.jpg","img/vedana_e6.jpg"],
-  miron:["img/miron.jpg","img/miron_e2.jpg","img/miron_e3.jpg","img/miron_e4.jpg","img/miron_e5.jpg","img/miron_e6.jpg"], gost:["img/gost.jpg","img/gost_e2.jpg","img/gost_e3.jpg","img/gost_e4.jpg","img/gost_e5.jpg","img/gost_e6.jpg"] };
+  miron:["img/miron.jpg?2","img/miron_e2.jpg?2","img/miron_e3.jpg?2","img/miron_e4.jpg?2","img/miron_e5.jpg?2","img/miron_e6.jpg?2"], gost:["img/gost.jpg","img/gost_e2.jpg","img/gost_e3.jpg","img/gost_e4.jpg?2","img/gost_e5.jpg","img/gost_e6.jpg"] };
 function portrait(k){ const p=PORTRAITS[k]; if(!p||!ADVISORS[k]||!isHouse(k)) return ADVISORS[k]?.img; return p[Math.min(S.eraIdx,p.length-1)]; }
 
 // Роды советников: в каждой эпохе новый человек того же рода. Прозвище предка становится фамилией.

diff --git a/index.html b/index.html
@@ -4,7 +4,7 @@
 <meta charset="utf-8">
 <meta name="viewport" content="width=device-width,initial-scale=1">
 <title>Градоначальникъ</title>
-<link rel="stylesheet" href="style.css?v=48">
+<link rel="stylesheet" href="style.css?v=49">
 </head>
 <body>
 <div id="app">
@@ -55,16 +55,17 @@
   </main>
 </div>
 <div id="overlay" class="hidden"><div id="ovBox"></div></div>
-<script src="data.js?v=48"></script>
-<script src="eras.js?v=48"></script>
-<script src="history.js?v=48"></script>
-<script src="eras2.js?v=48"></script>
-<script src="ai.js?v=48"></script>
-<script src="game.js?v=48"></script>
-<script src="mech.js?v=48"></script>
-<script src="saga.js?v=48"></script>
-<script src="balance.js?v=48"></script>
-<script src="save.js?v=48"></script>
-<script src="sound.js?v=48"></script>
+<script src="data.js?v=49"></script>
+<script src="eras.js?v=49"></script>
+<script src="history.js?v=49"></script>
+<script src="eras2.js?v=49"></script>
+<script src="ai.js?v=49"></script>
+<script src="game.js?v=49"></script>
+<script src="mech.js?v=49"></script>
+<script src="saga.js?v=49"></script>
+<script src="balance.js?v=49"></script>
+<script src="story.js?v=49"></script>
+<script src="save.js?v=49"></script>
+<script src="sound.js?v=49"></script>
 </body>
 </html>

diff --git a/data.js b/data.js
@@ -26,7 +26,7 @@ const JOBS = {
 const ADVISORS = {
   hort:  {name:"Хорт",   role:"старший охотник", ch:"Х", img:"img/hort.jpg", wants:"чтобы добычу делили по заслугам", voice:"грубо, коротко, по делу"},
   vedana:{name:"Ведана", role:"жрица и хранительница обычаев", ch:"В", img:"img/vedana.jpg", wants:"чтобы чтили предков и обычай", voice:"торжественно, с намёками на знамения"},
-  miron: {name:"Бажен",  role:"торговец, ходит к соседям меняться", ch:"М", img:"img/miron.jpg", wants:"выгоду и торговлю", voice:"хитро, считает всё"},
+  miron: {name:"Бажен",  role:"торговец, ходит к соседям меняться", ch:"М", img:"img/miron.jpg?2", wants:"выгоду и торговлю", voice:"хитро, считает всё"},
   gost:  {name:"Гостомысл", role:"старый мастер-кузнец", ch:"Г", img:"img/gost.jpg", wants:"уважения к ремеслу и платы за науку", voice:"ворчливо, мудро"}
 };
 

diff --git a/balance.js b/balance.js
@@ -51,7 +51,7 @@ economy=function(){
 const _showEventB=showEvent;
 showEvent=function(kind,aud){
   if(S.cur && S.cur.title==="Нашествие" && !S.cur._pw){ S.cur._pw=1; const ep=enemyPower();
-    S.cur.text+=` Твоя сила ${fightPower()}: стражник за двоих, стена 4, каждый третий мужчина. У врага от ${ep} до ${ep+5}. Если враг вдвое сильнее, бой кончится твоим свержением.`;
+    S.cur.text+=` Твоя сила ${fightPower()}: воин за троих, стражник за двоих, стена 4, каждый третий мужчина. У врага от ${ep} до ${ep+5}. Если враг вдвое сильнее, бой кончится твоим свержением.`;
     S.cur.choices=S.cur.choices.map(c=>c.fight?c:{...c, fx:c.fx&&c.fx.goods?{...c.fx, goods:-Math.max(14,Math.round(S.stats.goods*0.45)), trust:-5}:c.fx}); }
   const r=_showEventB(kind,aud);
   if(S.cur?.title){ S.seen=S.seen||[]; if(!S.seen.includes(S.cur.title)) S.seen.push(S.cur.title); }
